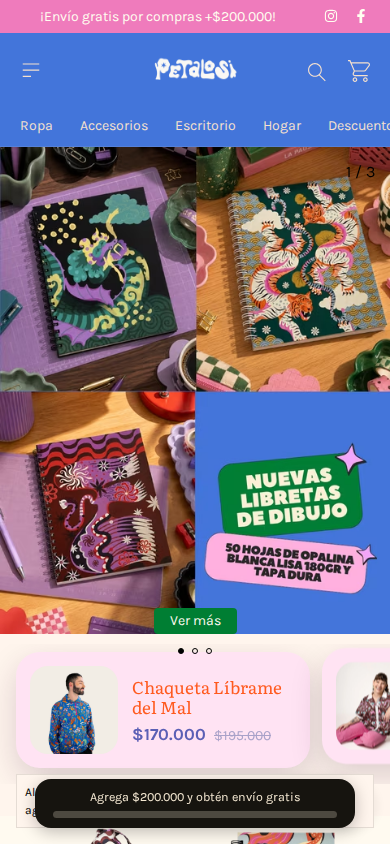
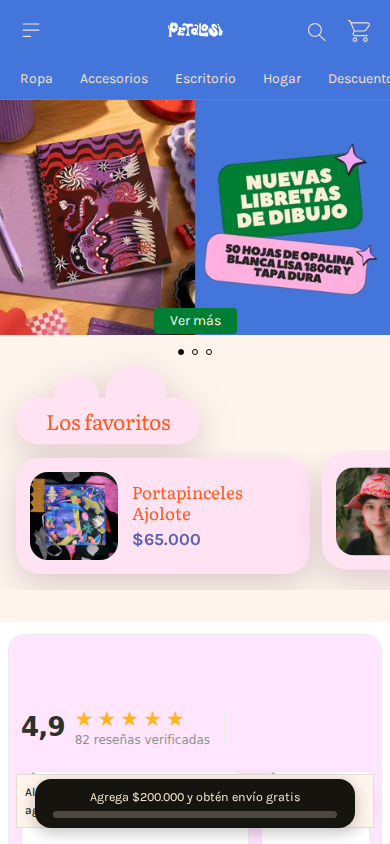
Add "Los favoritos" cloud title and show last 15 days' best sellers
- Pink cloud heading above the floating cards, left-aligned so it does
  not cover the slideshow's centered CTA
- Products switched to those sold Sep 13-28 2026 (Portapinceles Ajolote,
  Sombrero Trampolín, Bolso impermeable Cigüeña japonesa)
- Insert right after the slider container and re-place the cards if a
  late-loading app (the reviews widget) pushes them down

Claude-Session: https://claude.ai/code/session_01M6pHdPGfvJyXaXkk7TgqUC

diff --git a/tiendanube/productos-flotantes/productos-flotantes.html b/tiendanube/productos-flotantes/productos-flotantes.html
@@ -4,7 +4,8 @@
   Pega TODO este bloque (estilos + script) en Tiendanube:
   Configuración › Códigos externos (sección de scripts / "código en el footer").
 
-  Para cambiar los productos, edita PRODUCT_IDS más abajo.
+  Productos: los más vendidos de los últimos 15 días (13–28 sep 2026).
+  Para cambiarlos, edita PRODUCT_IDS más abajo.
   El script lee nombre, foto, precio y descuento de los productos que ya
   se muestran en el home, así que precios y promos se actualizan solos.
   Si un producto no aparece en el home, usa los datos de FALLBACK.
@@ -18,10 +19,45 @@
     --pf-old: #a9a2c9;
     position: relative;
     z-index: 5;
-    margin-top: -120px;          /* cuánto se "sube" sobre el banner */
+    margin-top: -190px;          /* cuánto se "sube" sobre el banner */
     margin-bottom: 32px;
     padding: 0 24px;
     pointer-events: none;        /* deja clicar el banner entre tarjetas */
+  }
+  /* Título "Los favoritos" en una nubecita */
+  .pf-floating__head {
+    max-width: 1400px;
+    margin: 0 auto 18px;
+    text-align: left;            /* a la izquierda: no tapa el botón del banner */
+  }
+  .pf-cloud {
+    position: relative;
+    display: inline-block;
+    margin-top: 36px;            /* espacio para las "bolitas" de la nube */
+    padding: 12px 40px 14px;
+    background: var(--pf-card-bg);
+    border-radius: 999px;
+    filter: drop-shadow(0 10px 18px rgba(60, 20, 60, .2));
+    animation: pf-float 6s ease-in-out infinite;
+    animation-delay: -1s;
+  }
+  .pf-cloud::before,
+  .pf-cloud::after {
+    content: "";
+    position: absolute;
+    z-index: -1;
+    border-radius: 50%;
+    background: var(--pf-card-bg);
+  }
+  .pf-cloud::before { width: 58px; height: 58px; top: -28px; left: 20%; }
+  .pf-cloud::after  { width: 78px; height: 78px; top: -40px; right: 18%; }
+  .pf-cloud__text {
+    position: relative;
+    margin: 0;
+    font-family: var(--heading-font, "Literata", serif);
+    font-size: 26px;
+    line-height: 1.2;
+    color: var(--pf-title);
   }
   .pf-floating__track {
     display: grid;
@@ -103,7 +139,12 @@
   }
   /* Celular: carrusel horizontal deslizable */
   @media (max-width: 767px) {
-    .pf-floating { margin-top: -24px; padding: 0; }
+    .pf-floating { margin-top: 0; padding: 0; }
+    .pf-floating__head { margin-bottom: 4px; padding: 0 16px; }
+    .pf-cloud { margin-top: 30px; padding: 10px 30px 12px; }
+    .pf-cloud::before { width: 46px; height: 46px; top: -22px; }
+    .pf-cloud::after  { width: 62px; height: 62px; top: -32px; }
+    .pf-cloud__text { font-size: 21px; }
     .pf-floating__track {
       display: flex;
       gap: 12px;
@@ -117,40 +158,46 @@
   }
   /* Sube los puntitos del carrusel para que no queden debajo de las tarjetas */
   @media (min-width: 768px) {
-    .pf-on .section-slideshow .swiper-pagination { bottom: 136px !important; }
+    .pf-on [data-store="home-slider"] .swiper-pagination { bottom: 206px !important; }
   }
   @media (prefers-reduced-motion: reduce) {
-    .pf-card { animation: none; }
+    .pf-card, .pf-cloud { animation: none; }
   }
 </style>
 
 <script>
 (function () {
+  // ▼▼ Título de la sección ▼▼
+  var TITLE = 'Los favoritos';
+
   // ▼▼ Productos a destacar (IDs de Tiendanube, en el orden en que se muestran) ▼▼
-  var PRODUCT_IDS = ['241656553', '242367455', '241662783'];
+  // Más vendidos del 13 al 28 de sept. 2026. Todos empataron en 1 unidad,
+  // así que se eligieron los de las compras más recientes.
+  var PRODUCT_IDS = ['348267174', '284226623', '342868992'];
 
   // Datos de respaldo por si el producto no está en ninguna lista del home.
+  // "desc" se usa siempre como texto corto de la tarjeta.
   var FALLBACK = {
-    '241656553': {
-      name: 'Chaqueta Líbrame del Mal',
-      url: 'https://www.petalosi.co/productos/chaqueta-librame-del-mal/',
-      image: 'https://acdn-us.mitiendanube.com/stores/005/464/701/products/diseno-sin-titulo-1-fad4b765bc355fe61f17818219555859-480-0.webp',
-      desc: 'Impermeable, con estampado inspirado en el ritual de 7 plantas. Colaboración con Cavald.',
-      price: '$170.000', old: '$195.000'
+    '348267174': {
+      name: 'Portapinceles Ajolote',
+      url: 'https://www.petalosi.co/productos/portapinceles-tigre-copia-sd8b1/',
+      image: 'https://acdn-us.mitiendanube.com/stores/005/464/701/products/portapinceles-morado-5cdd168ada5a130cf117805043514422-480-0.webp',
+      desc: 'Organiza tus pinceles con estilo: trae una tira resistente para amarrarlo.',
+      price: '$65.000', old: ''
     },
-    '242367455': {
-      name: 'Camisa Criaturas del Bosque',
-      url: 'https://www.petalosi.co/productos/camisa-criaturas-del-bosque/',
-      image: 'https://acdn-us.mitiendanube.com/stores/005/464/701/products/dsc08399-96c181acf1a377d81c17818221549251-480-0.webp',
-      desc: 'Camisa oversize ilustrada, liviana y hecha por mujeres colombianas.',
-      price: '$80.000', old: '$160.000'
+    '284226623': {
+      name: 'Sombrero Trampolín',
+      url: 'https://www.petalosi.co/productos/sombrero-trampolin/',
+      image: 'https://acdn-us.mitiendanube.com/stores/005/464/701/products/img_0663-783031a662c4d9af3917537153928826-480-0.webp',
+      desc: 'Doble estampado, ligero y cómodo. Ideal para el sol colombiano.',
+      price: '$60.000', old: '$85.000'
     },
-    '241662783': {
-      name: 'Hoodie Amix',
-      url: 'https://www.petalosi.co/productos/hoodie-amix/',
-      image: 'https://acdn-us.mitiendanube.com/stores/005/464/701/products/hoodie-989a846cc3ecd06b2717818215654879-480-0.webp',
-      desc: 'Una prenda única y abrigadora para los días sin solecito.',
-      price: '$85.000', old: '$150.000'
+    '342868992': {
+      name: 'Bolso impermeable Cigüeña japonesa',
+      url: 'https://www.petalosi.co/productos/bolso-impermeable-flores-electricas-1xp3t/',
+      image: 'https://acdn-us.mitiendanube.com/stores/005/464/701/products/5-9ee68ecdbbb986d32e17782588752066-480-0.webp',
+      desc: 'Resistente y portátil, para la playa, el mercado o la oficina.',
+      price: '$80.000', old: ''
     }
   };
 
@@ -210,8 +257,10 @@
 
   function init() {
     if (document.querySelector('.pf-floating')) return;
-    var hero = document.querySelector('.section-slideshow') ||
-               document.querySelector('[data-store="home-slider"]');
+    // Se inserta justo después del carrusel (antes de apps como las reseñas).
+    var hero = document.querySelector('.section-slideshow [data-store="home-slider"]') ||
+               document.querySelector('[data-store="home-slider"]') ||
+               document.querySelector('.section-slideshow');
     if (!hero) return; // solo en el home
 
     var track = el('div', 'pf-floating__track');
@@ -223,11 +272,30 @@
     });
     if (!track.children.length) return;
 
-    var wrap = el('div', 'pf-floating');
-    wrap.setAttribute('aria-label', 'Productos destacados');
+    var wrap = el('section', 'pf-floating');
+    wrap.setAttribute('aria-label', TITLE);
+    var head = el('div', 'pf-floating__head');
+    var cloud = el('div', 'pf-cloud');
+    cloud.appendChild(el('h2', 'pf-cloud__text', TITLE));
+    head.appendChild(cloud);
+    wrap.appendChild(head);
     wrap.appendChild(track);
-    hero.parentNode.insertBefore(wrap, hero.nextSibling);
+    function place() {
+      if (hero.nextElementSibling !== wrap) hero.parentNode.insertBefore(wrap, hero.nextSibling);
+    }
+    place();
     document.body.classList.add('pf-on');
+
+    // Algunas apps (p. ej. reseñas) se insertan después y empujarían las
+    // tarjetas hacia abajo: durante unos segundos las devolvemos a su lugar.
+    if (window.MutationObserver) {
+      var moves = 0;
+      var obs = new MutationObserver(function () {
+        if (hero.nextElementSibling !== wrap && moves++ < 20) place();
+      });
+      obs.observe(hero.parentNode, { childList: true });
+      setTimeout(function () { obs.disconnect(); }, 15000);
+    }
   }
 
   if (document.readyState === 'loading') {
